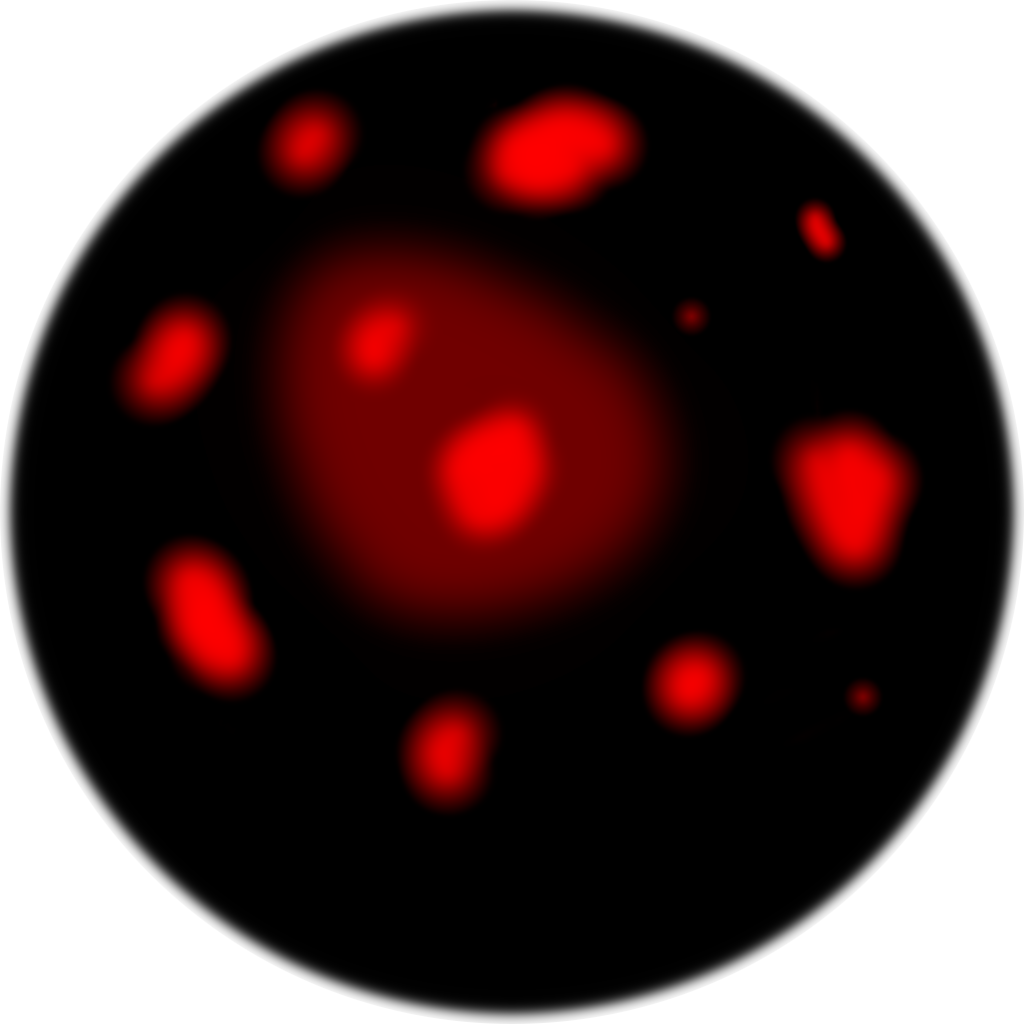
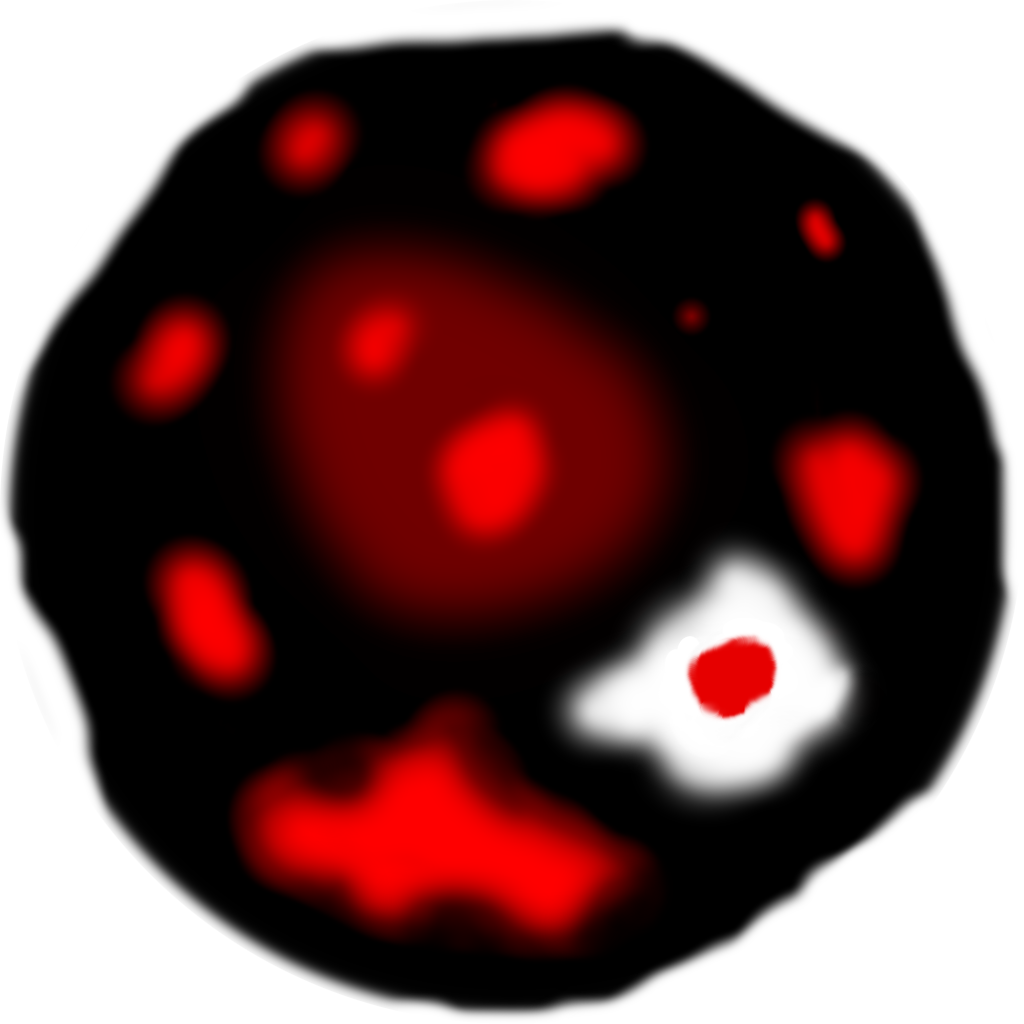
stuff and things btw

diff --git a/src/main.rs b/src/main.rs
@@ -65,6 +65,7 @@ pub struct Game {
     tutorial: String,
     tutorial_timer: f32,
     land_environment: Vec<ugli::VertexBuffer<ObjInstance>>,
+    trees_environment: Vec<ugli::VertexBuffer<ObjInstance>>,
     shallow_environment: Vec<ugli::VertexBuffer<ObjInstance>>,
     editing_name: bool,
     target_cam_distance: f32,
@@ -91,6 +92,10 @@ impl Game {
             (0..assets.environment.land.len())
                 .map(|_| ugli::VertexBuffer::new_static(geng.ugli(), vec![]))
                 .collect();
+        let mut trees_environment: Vec<ugli::VertexBuffer<ObjInstance>> =
+            (0..assets.environment.trees.len())
+                .map(|_| ugli::VertexBuffer::new_static(geng.ugli(), vec![]))
+                .collect();
         let mut shallow_environment: Vec<ugli::VertexBuffer<ObjInstance>> =
             (0..assets.environment.shallow.len())
                 .map(|_| ugli::VertexBuffer::new_static(geng.ugli(), vec![]))
@@ -98,9 +103,59 @@ impl Game {
         {
             // Generate the environment
             let mut rng = StdRng::seed_from_u64(1234);
+            let (w, h) = Map::get().get_dimensions();
+            for x in 0..w {
+                for y in 0..h {
+                    let pixel_value = Map::get()
+                        .get_pixel(Vec2 {
+                            x: x as i32,
+                            y: y as i32,
+                        })
+                        .0[0];
+                    if pixel_value > 220 {
+                        let mut pos = Vec2 {
+                            x: 100.0 * (x as f32 / w as f32 * 2.0 - 1.0),
+                            y: 100.0 * (y as f32 / h as f32 * 2.0 - 1.0),
+                        };
+                        let weight = pixel_value as u32 - 220;
+                        let rng_choice = rng.gen_range(0..8500);
+                        if rng_choice < 8500 - weight {
+                            continue;
+                        }
+                        pos.y += rng_choice as f32 * 0.00005;
+                        let height = Map::get().get_height(pos);
+                        let mut big_tree = rng.gen_range(0..40);
+                        if pos.len() < 20.0 {
+                            big_tree = 10;
+                        }
+                        let mut idx = rng.gen_range(1..assets.environment.trees.len());
+                        let flip = rng.gen_range(0..=1);
+                        let flip_scale = if flip == 0 { 1.0 } else { -1.0 };
+                        if big_tree == 0 {
+                            idx = 0;
+                        }
+                        let texture = &assets.environment.trees[idx];
+                        trees_environment[idx].push(ObjInstance {
+                            i_model_matrix: Mat4::translate(pos.extend(height))
+                                * Mat4::scale({
+                                    let s = texture.size().map(|x| x as f32) * 0.0018;
+                                    vec3(
+                                        (s.x + 0.04 * weight as f32) * flip_scale,
+                                        1.0,
+                                        s.y + 0.04 * weight as f32,
+                                    )
+                                })
+                                * Mat4::translate(vec3(0.0, 0.0, 1.0)),
+                        });
+                    }
+                }
+            }
             for _ in 0..10000 {
                 let pos = vec2(rng.gen_range(-SIZE..SIZE), rng.gen_range(-SIZE..SIZE));
                 let height = Map::get().get_height(pos);
+                if Map::get().get_is_void(pos) {
+                    continue;
+                }
                 if height > 0.0 {
                     let idx = rng.gen_range(0..assets.environment.land.len());
                     let texture = &assets.environment.land[idx];
@@ -129,6 +184,7 @@ impl Game {
         Self {
             target_cam_distance: 20.0,
             editing_name: true,
+            trees_environment,
             land_environment,
             shallow_environment,
             player_id,
@@ -252,6 +308,26 @@ impl Game {
     }
 
     pub fn draw_environment(&self, framebuffer: &mut ugli::Framebuffer) {
+        for (index, instances) in self.trees_environment.iter().enumerate() {
+            ugli::draw(
+                framebuffer,
+                &self.assets.shaders.obj,
+                ugli::DrawMode::TriangleFan,
+                ugli::instanced(&self.quad, instances),
+                (
+                    ugli::uniforms! {
+                        u_color: Rgba::WHITE,
+                        u_texture: &self.assets.environment.trees[index],
+                    },
+                    geng::camera3d_uniforms(&self.camera, self.framebuffer_size),
+                ),
+                ugli::DrawParameters {
+                    // blend_mode: Some(ugli::BlendMode::default()),
+                    depth_func: Some(ugli::DepthFunc::LessOrEqual),
+                    ..default()
+                },
+            );
+        }
         for (index, instances) in self.land_environment.iter().enumerate() {
             ugli::draw(
                 framebuffer,

diff --git a/src/land.rs b/src/land.rs
@@ -221,8 +221,14 @@ impl Map {
         .into_rgba8();
         Self { image }
     }
+    pub fn get_dimensions(&self) -> (u32, u32) {
+        self.image.dimensions()
+    }
     pub fn get_height(&self, pos: Vec2<f32>) -> f32 {
         self.get_channel_value(0, pos) * (HIGHEST_LAND - DEEPEST_DEPTH) + DEEPEST_DEPTH
+    }
+    pub fn get_is_void(&self, pos: Vec2<f32>) -> bool {
+        self.get_channel_value(3, pos) < 0.9
     }
     pub fn get_channel_value(&self, channel: usize, pos: Vec2<f32>) -> f32 {
         let uv = pos.map(|x| ((x + SIZE) / (2.0 * SIZE)) * self.image.width() as f32);
@@ -243,7 +249,7 @@ impl Map {
             pos.x,
         )
     }
-    fn get_pixel(&self, pos: Vec2<i32>) -> image::Rgba<u8> {
+    pub fn get_pixel(&self, pos: Vec2<i32>) -> image::Rgba<u8> {
         *self.image.get_pixel(
             pos.x.clamp(0, self.image.width() as i32 - 1) as u32,
             (self.image.height() as i32 - pos.y - 1).clamp(0, self.image.height() as i32 - 1)

diff --git a/src/assets.rs b/src/assets.rs
@@ -203,6 +203,7 @@ fn load_fishes(geng: &Geng, path: &std::path::Path) -> geng::AssetFuture<Vec<Fis
 }
 
 pub struct EnvironmentAssets {
+    pub trees: Vec<ugli::Texture>,
     pub land: Vec<ugli::Texture>,
     pub shallow: Vec<ugli::Texture>,
 }
@@ -229,6 +230,7 @@ fn load_environment(geng: &Geng, path: &std::path::Path) -> geng::AssetFuture<En
             .unwrap()
         }
         Ok(EnvironmentAssets {
+            trees: load_textures(&geng, &path, &list["trees"]).await,
             land: load_textures(&geng, &path, &list["land"]).await,
             shallow: load_textures(&geng, &path, &list["shallow"]).await,
         })
